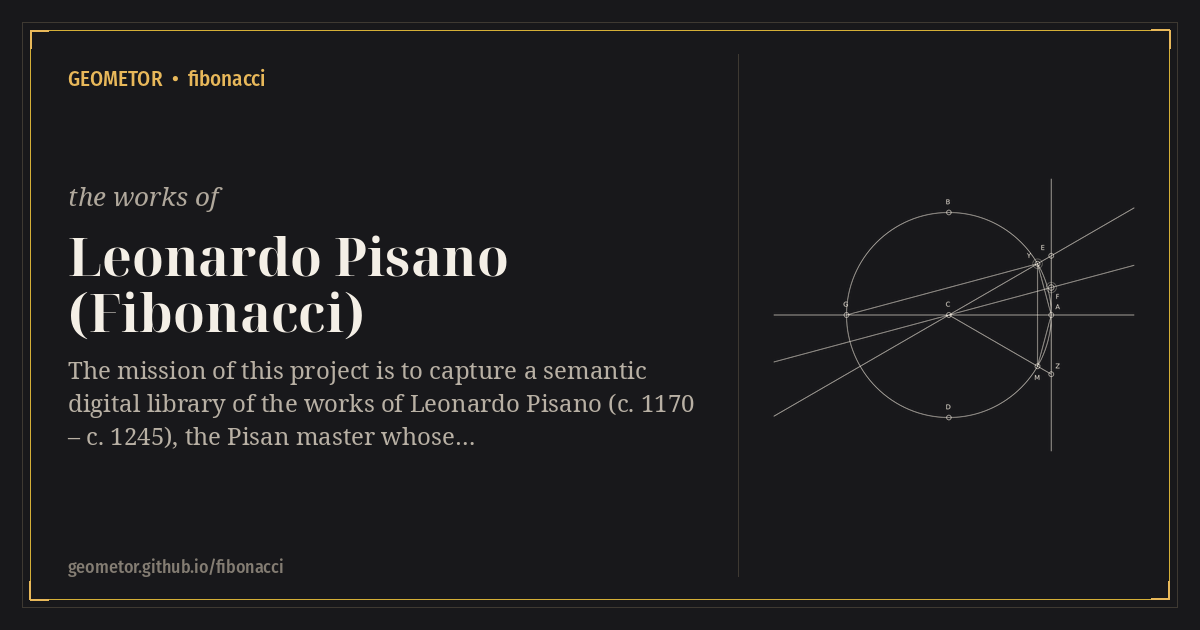
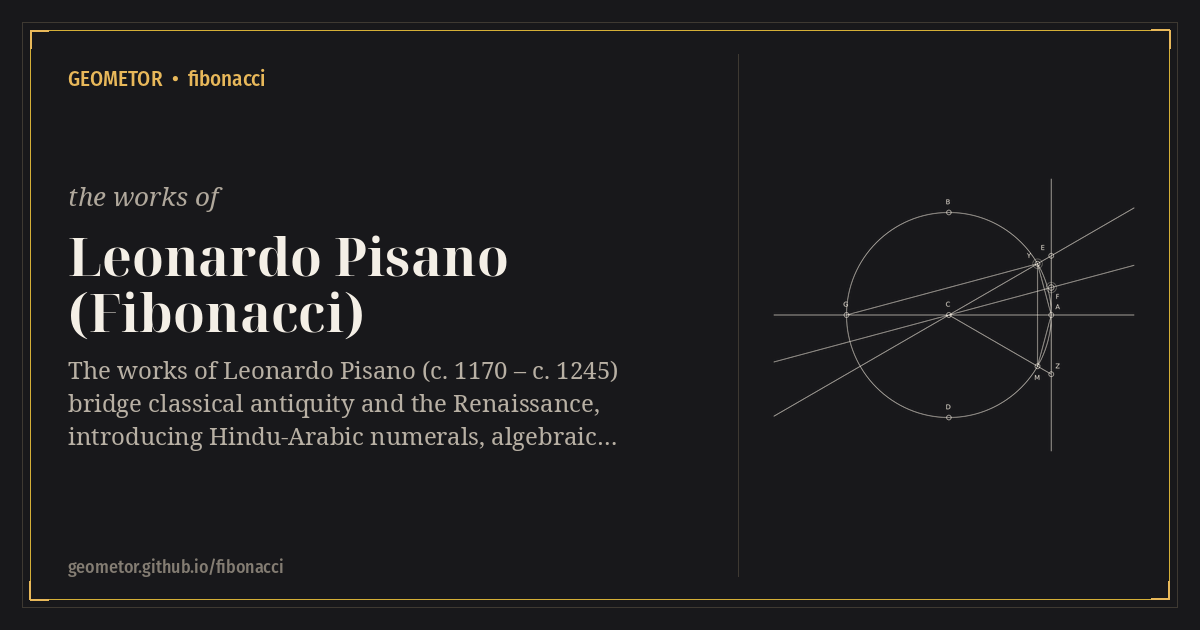
docs: add construction hero images, elevate English titles with native title tracks, and standardize track menus

Changed region(s): [[0.0617, 0.6333, 0.5858, 0.7238], [0.0925, 0.573, 0.555, 0.6032]]

diff --git a/docsrc/practica_geometriae/title-la.rst b/docsrc/practica_geometriae/title-la.rst
@@ -1,0 +1,50 @@
+:type: book_title
+:layout: book
+:title: Practica Geometriae
+:book_title: Practica Geometriae
+:book_subtitle: Leonardi Pisani Practica Geometriae (1220 / ed. Boncompagni, 1862)
+:author: Leonardus Pisanus (Fibonacci)
+:toc_label: Conspectus
+:persons_label: Index Nominum
+:bibliography_label: Bibliographia
+:glossary_label: Glossarium
+:tracks: English: index | Latin: title-la
+
+.. _practica-geometriae-title-la:
+
+===================
+Practica Geometriae
+===================
+
+.. rubric:: *Leonardi Pisani* — Pisis, MCCXX
+
+.. container:: title-page
+
+   | :person:`Leonardus Pisanus (Fibonacci) <fibonacci>`
+   | *(c. 1170 – c. 1245 · Civis et Mathematicus Pisanus)*
+   |
+   | **Editio Prima (1220):** Ad Magistrum Dominicum
+   | **Editio Critica:** Baldassarre Boncompagni (*Scritti di Leonardo Pisano*, Vol. II, Romae, 1862)
+
+----
+
+Conspectus Totius Operis
+------------------------
+
+* Distinctio I: :doc:`Latin <dist_01/dist_01-la>` · :doc:`English <dist_01/dist_01-en>` · :doc:`Summary <dist_01/dist_01-summary>` · :doc:`Notes <dist_01/dist_01-notes>`
+* Distinctio II: :doc:`Latin <dist_02/dist_02-la>` · :doc:`English <dist_02/dist_02-en>` · :doc:`Summary <dist_02/dist_02-summary>` · :doc:`Notes <dist_02/dist_02-notes>`
+* Distinctio III: :doc:`Latin <dist_03/dist_03-la>` · :doc:`English <dist_03/dist_03-en>` · :doc:`Summary <dist_03/dist_03-summary>` · :doc:`Notes <dist_03/dist_03-notes>`
+* Distinctio IV: :doc:`Latin <dist_04/dist_04-la>` · :doc:`English <dist_04/dist_04-en>` · :doc:`Summary <dist_04/dist_04-summary>` · :doc:`Notes <dist_04/dist_04-notes>`
+* Distinctio V: :doc:`Latin <dist_05/dist_05-la>` · :doc:`English <dist_05/dist_05-en>` · :doc:`Summary <dist_05/dist_05-summary>` · :doc:`Notes <dist_05/dist_05-notes>`
+* Distinctio VI: :doc:`Latin <dist_06/dist_06-la>` · :doc:`English <dist_06/dist_06-en>` · :doc:`Summary <dist_06/dist_06-summary>` · :doc:`Notes <dist_06/dist_06-notes>`
+* Distinctio VII: :doc:`Latin <dist_07/dist_07-la>` · :doc:`English <dist_07/dist_07-en>` · :doc:`Summary <dist_07/dist_07-summary>` · :doc:`Notes <dist_07/dist_07-notes>`
+* Distinctio VIII: :doc:`Latin <dist_08/dist_08-la>` · :doc:`English <dist_08/dist_08-en>` · :doc:`Summary <dist_08/dist_08-summary>` · :doc:`Notes <dist_08/dist_08-notes>`
+
+----
+
+Apparatus Criticus
+------------------
+
+* :ref:`Bibliographia <bibliography>`
+* :ref:`Index Nominum <persons>`
+* :ref:`Glossarium <glossary>`

diff --git a/docsrc/practica_geometriae/index.rst b/docsrc/practica_geometriae/index.rst
@@ -1,22 +1,24 @@
 :navigation: header
 :order: 1
 :type: book
-:nav_title: Practica Geometriae
-:breadcrumb_title: Practica Geometriae
+:title: Practice of Geometry
+:nav_title: Practice of Geometry
+:breadcrumb_title: Practice of Geometry
 :layout: book
-:book_title: Practica Geometriae
-:book_subtitle: Practice of Geometry (1220 / ed. Boncompagni, 1862) — Leonardo Pisano
+:book_title: Practice of Geometry
+:book_subtitle: Practica Geometriae (1220 / ed. Boncompagni, 1862) — Leonardo Pisano
 :author: Leonardo Pisano (Fibonacci)
 :year: 1220
+:tracks: English: index | Latin: title-la
 :excerpt: Leonardo Pisano's 1220 medieval masterwork on practical geometry, field divisions, circle measurement, and Euclidean regular polyhedra.
 
 .. _fibonacci-index:
 .. _practica-geometriae-index:
 
-Practica Geometriae
-===================
+Practice of Geometry
+====================
 
-.. rubric:: *Practice of Geometry* — Leonardo Pisano / Fibonacci (1220 / ed. Boncompagni, 1862)
+.. rubric:: *Practica Geometriae* — Leonardo Pisano / Fibonacci (1220 / ed. Boncompagni, 1862)
 
 .. container:: title-page
 
@@ -30,8 +32,8 @@ Practica Geometriae
 
 .. _table-of-contents:
 
-Table of Distinctiones
-----------------------
+Table of Distinctions
+---------------------
 
 .. collection::
    :sort: order
@@ -70,7 +72,7 @@ Scholarly Apparatus
 .. toctree::
    :maxdepth: 2
    :hidden:
-   :caption: Latin Edition (1220 / Boncompagni 1862)
+   :caption: Latin Edition
 
    dist_01/dist_01-la
    dist_02/dist_02-la
@@ -112,3 +114,10 @@ Scholarly Apparatus
    bibliography
    persons
    glossary
+
+.. toctree::
+   :maxdepth: 1
+   :hidden:
+   :caption: Title Pages
+
+   title-la

diff --git a/docsrc/liber_abbaci/index.rst b/docsrc/liber_abbaci/index.rst
@@ -1,23 +1,25 @@
 :navigation: header
 :order: 2
 :type: book
-:nav_title: Liber Abbaci
-:breadcrumb_title: Liber Abbaci
+:title: The Book of Calculation
+:nav_title: Book of Calculation
+:breadcrumb_title: Book of Calculation
 :layout: book
-:book_title: Liber Abbaci
-:book_subtitle: The Book of Calculation (1202 / 1228 / ed. Boncompagni, 1857) — Leonardo Pisano
+:book_title: The Book of Calculation
+:book_subtitle: Liber Abbaci (1202 / 1228 / ed. Boncompagni, 1857) — Leonardo Pisano
 :author: Leonardo Pisano (Fibonacci)
 :year: 1202
+:tracks: English: index | Latin: title-la
 :excerpt: Leonardo Pisano's revolutionary 1202/1228 treatise introducing Indo-Arabic numerals, commercial arithmetic, and the golden rabbit sequence to the Latin West.
 
 .. _liber-abbaci:
 .. _liber-abbaci-index:
 
-============
-Liber Abbaci
-============
+=======================
+The Book of Calculation
+=======================
 
-.. rubric:: *The Book of Calculation* (1202 / 1228) — Leonardo Pisano (Fibonacci)
+.. rubric:: *Liber Abbaci* (1202 / 1228) — Leonardo Pisano (Fibonacci)
 
 .. container:: title-page
 
@@ -32,7 +34,7 @@ Liber Abbaci
 
 .. _liber-abbaci-toc:
 
-Table of Capitula
+Table of Chapters
 -----------------
 
 .. collection::
@@ -52,7 +54,7 @@ Table of Capitula
 .. toctree::
    :maxdepth: 2
    :hidden:
-   :caption: Latin Edition (1202/1228 / Boncompagni 1857)
+   :caption: Latin Edition
 
    cap_01/cap_01-la
    cap_12/cap_12-la
@@ -66,3 +68,10 @@ Table of Capitula
    cap_01/cap_01-notes
    cap_12/cap_12-summary
    cap_12/cap_12-notes
+
+.. toctree::
+   :maxdepth: 1
+   :hidden:
+   :caption: Title Pages
+
+   title-la

diff --git a/docsrc/liber_abbaci/title-la.rst b/docsrc/liber_abbaci/title-la.rst
@@ -1,0 +1,52 @@
+:type: book_title
+:layout: book
+:title: Liber Abbaci
+:book_title: Liber Abbaci
+:book_subtitle: Leonardi Pisani Liber Abbaci (1202 / 1228 / ed. Boncompagni, 1857)
+:author: Leonardus Pisanus (Fibonacci)
+:toc_label: Conspectus
+:persons_label: Index Nominum
+:bibliography_label: Bibliographia
+:glossary_label: Glossarium
+:tracks: English: index | Latin: title-la
+
+.. _liber-abbaci-title-la:
+
+============
+Liber Abbaci
+============
+
+.. rubric:: *Leonardi Pisani* — Pisis, MCCII / MCCXXVIII
+
+.. container:: title-page
+
+   | :person:`Leonardus Pisanus (Fibonacci) <fibonacci>`
+   | *(c. 1170 – c. 1245 · Civis et Mathematicus Pisanus)*
+   |
+   | **Editio Prima:** Pisis (1202)
+   | **Recognitio Auctior:** Ad Magistrum Michaelem Scotum (1228)
+   | **Editio Critica:** Baldassarre Boncompagni (*Il Liber Abbaci*, Romae, 1857)
+
+----
+
+Conspectus Totius Operis
+------------------------
+
+Capitulum I — De Novem Figuris Indorum
+~~~~~~~~~~~~~~~~~~~~~~~~~~~~~~~~~~~~~~
+
+:doc:`Latin <cap_01/cap_01-la>` · :doc:`English <cap_01/cap_01-en>` · :doc:`Summary <cap_01/cap_01-summary>` · :doc:`Notes <cap_01/cap_01-notes>`
+
+Capitulum XII — De Quaestionibus Arithmeticae et de Paribus Cuniculorum
+~~~~~~~~~~~~~~~~~~~~~~~~~~~~~~~~~~~~~~~~~~~~~~~~~~~~~~~~~~~~~~~~~~~~~~~~
+
+:doc:`Latin <cap_12/cap_12-la>` · :doc:`English <cap_12/cap_12-en>` · :doc:`Summary <cap_12/cap_12-summary>` · :doc:`Notes <cap_12/cap_12-notes>`
+
+----
+
+Apparatus Criticus
+------------------
+
+* :ref:`Bibliographia <bibliography>`
+* :ref:`Index Nominum <persons>`
+* :ref:`Glossarium <glossary>`

diff --git a/README.rst b/README.rst
@@ -3,6 +3,11 @@ GEOMETOR • fibonacci
 
 **Visit the Online Archive:** https://geometor.github.io/fibonacci/
 
+.. image:: docsrc/_static/figures/dodecahedron_golden_chord.svg
+   :alt: GEOMETOR • fibonacci featured geometric construction
+   :target: https://geometor.github.io/fibonacci/
+   :align: center
+
 **Leonardo Pisano (Fibonacci) • Liber Abbaci, Practica Geometriae • semantic digital archive**
 
 Mission
@@ -13,8 +18,8 @@ Mission
 Books in This Archive
 ---------------------
 
-- **`Practica Geometriae <https://geometor.github.io/fibonacci/practica_geometriae/>`_** — Practice of Geometry (1220 / ed. Boncompagni, 1862) featuring eight distinctions on Euclidean divisions, Archimedean circle bounds, and regular polyhedra in sphere.
-- **`Liber Abbaci <https://geometor.github.io/fibonacci/liber_abbaci/>`_** — The Book of Calculation (1202 / 1228 / ed. Boncompagni, 1857) introducing Hindu-Arabic numerals, rabbit breeding convergents to the golden ratio, and algebraic problem-solving to Europe.
+- **`Practice of Geometry <https://geometor.github.io/fibonacci/practica_geometriae/>`_** — *Practica Geometriae* (1220 / ed. Boncompagni, 1862) featuring eight distinctions on Euclidean divisions, Archimedean circle bounds, and regular polyhedra in sphere.
+- **`The Book of Calculation <https://geometor.github.io/fibonacci/liber_abbaci/>`_** — *Liber Abbaci* (1202 / 1228 / ed. Boncompagni, 1857) introducing Hindu-Arabic numerals, rabbit breeding convergents to the golden ratio, and algebraic problem-solving to Europe.
 
 Repository Contents
 -------------------
